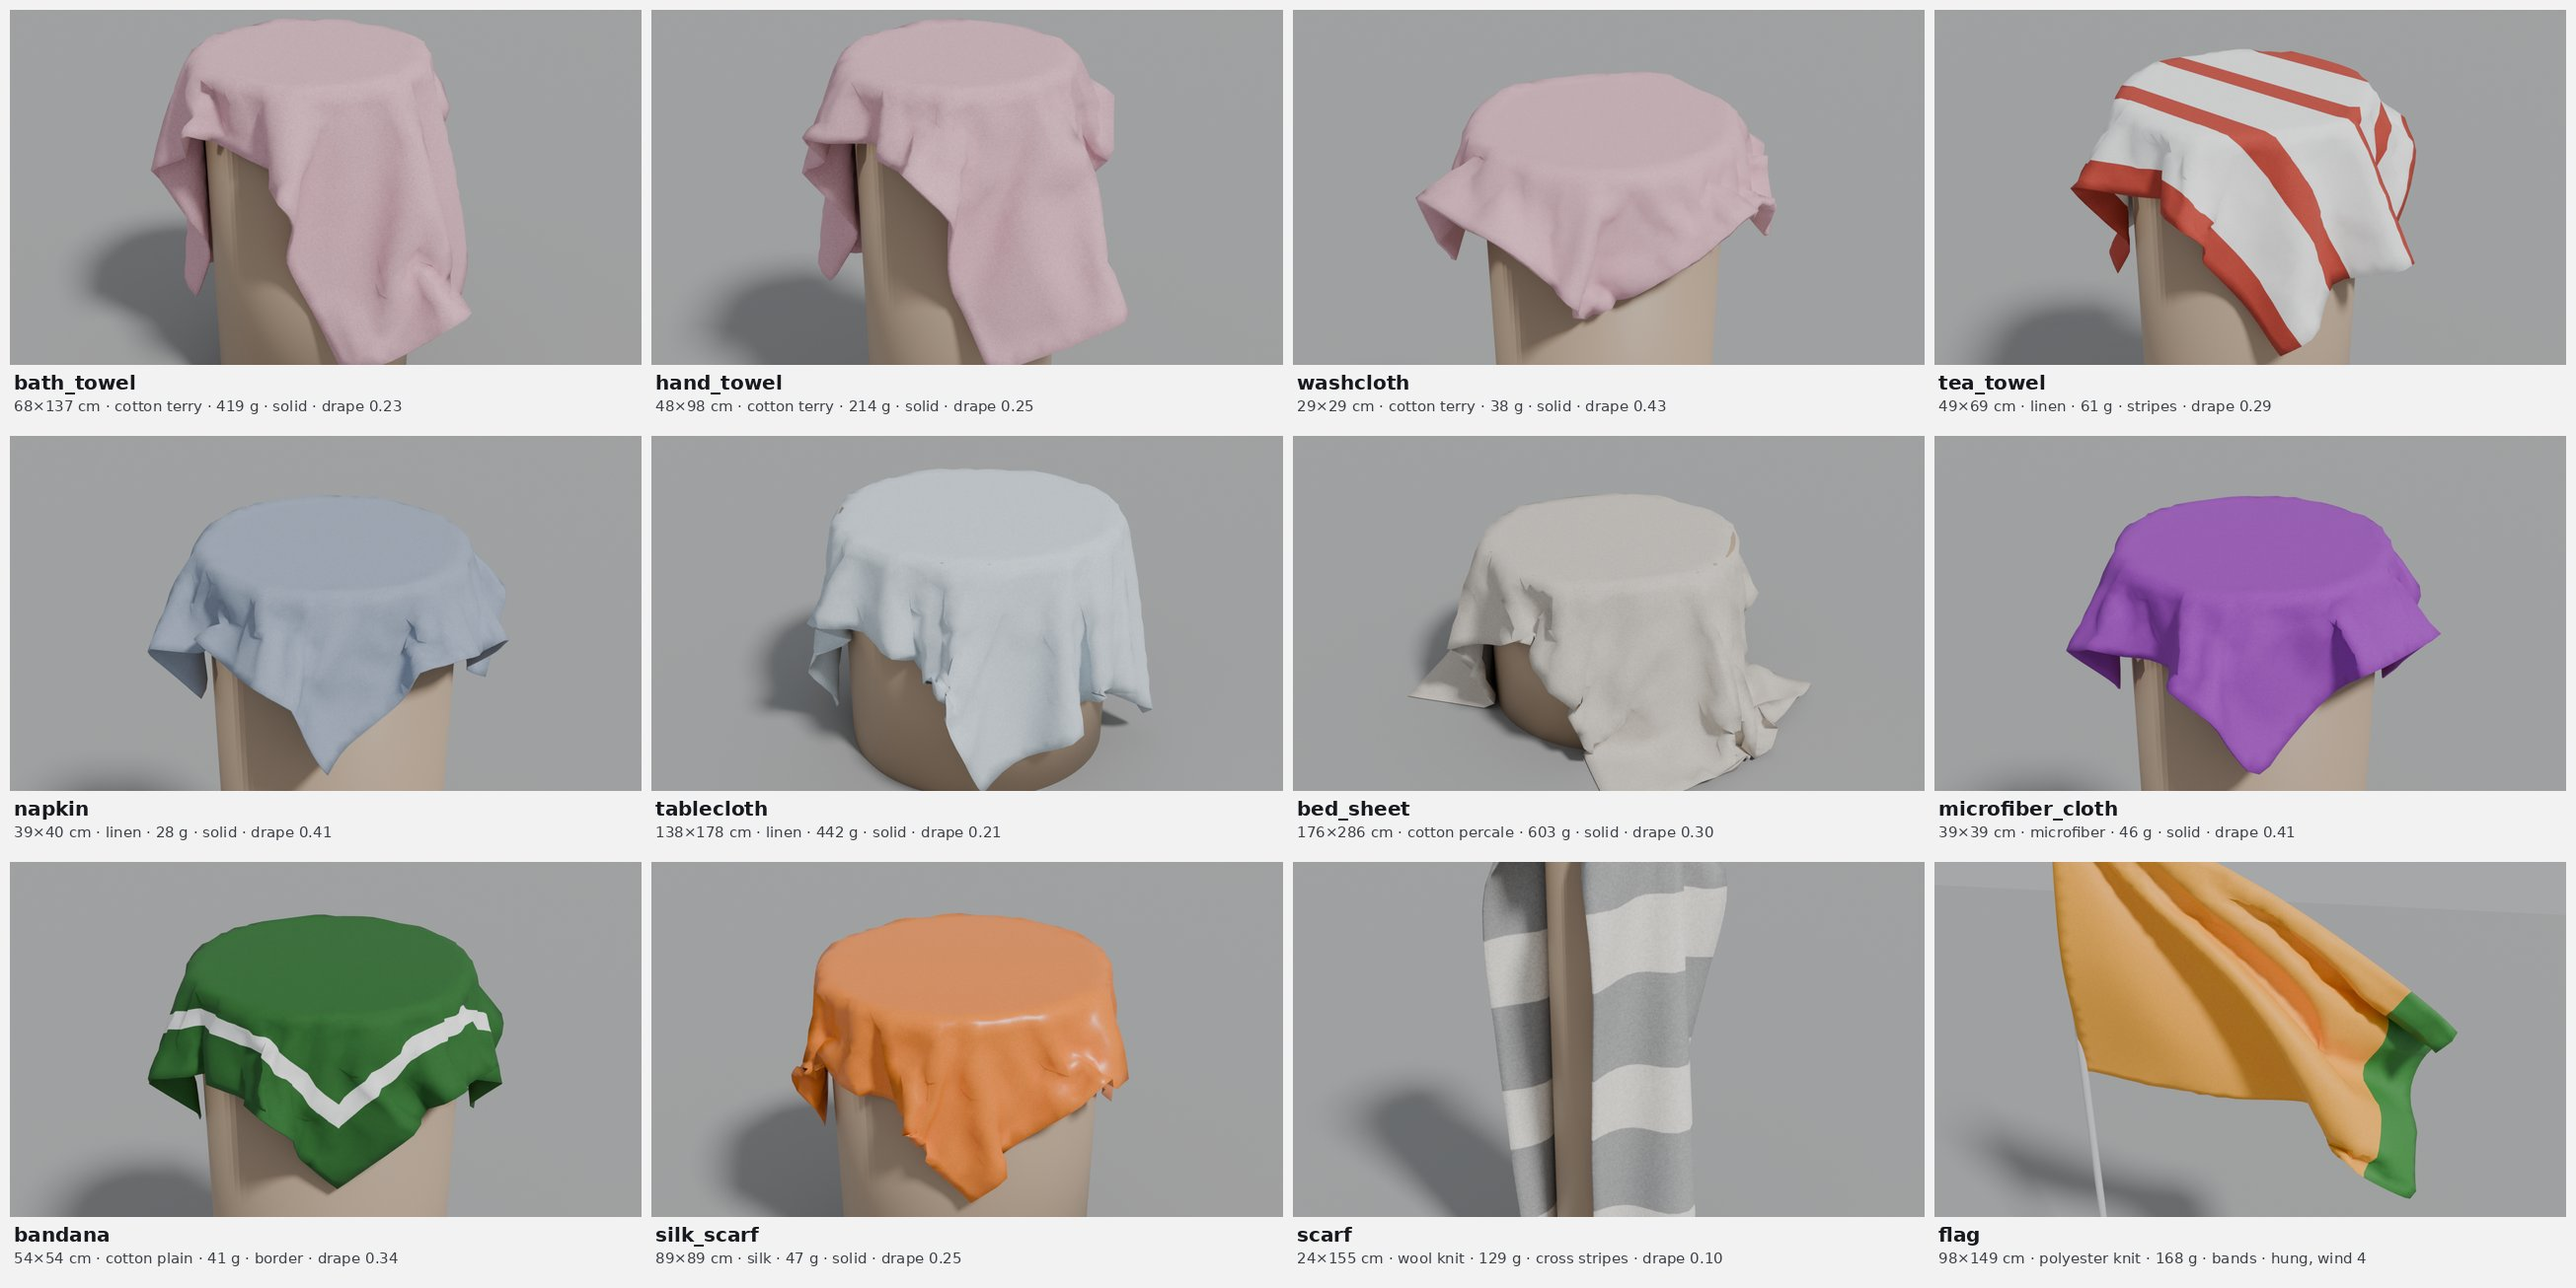
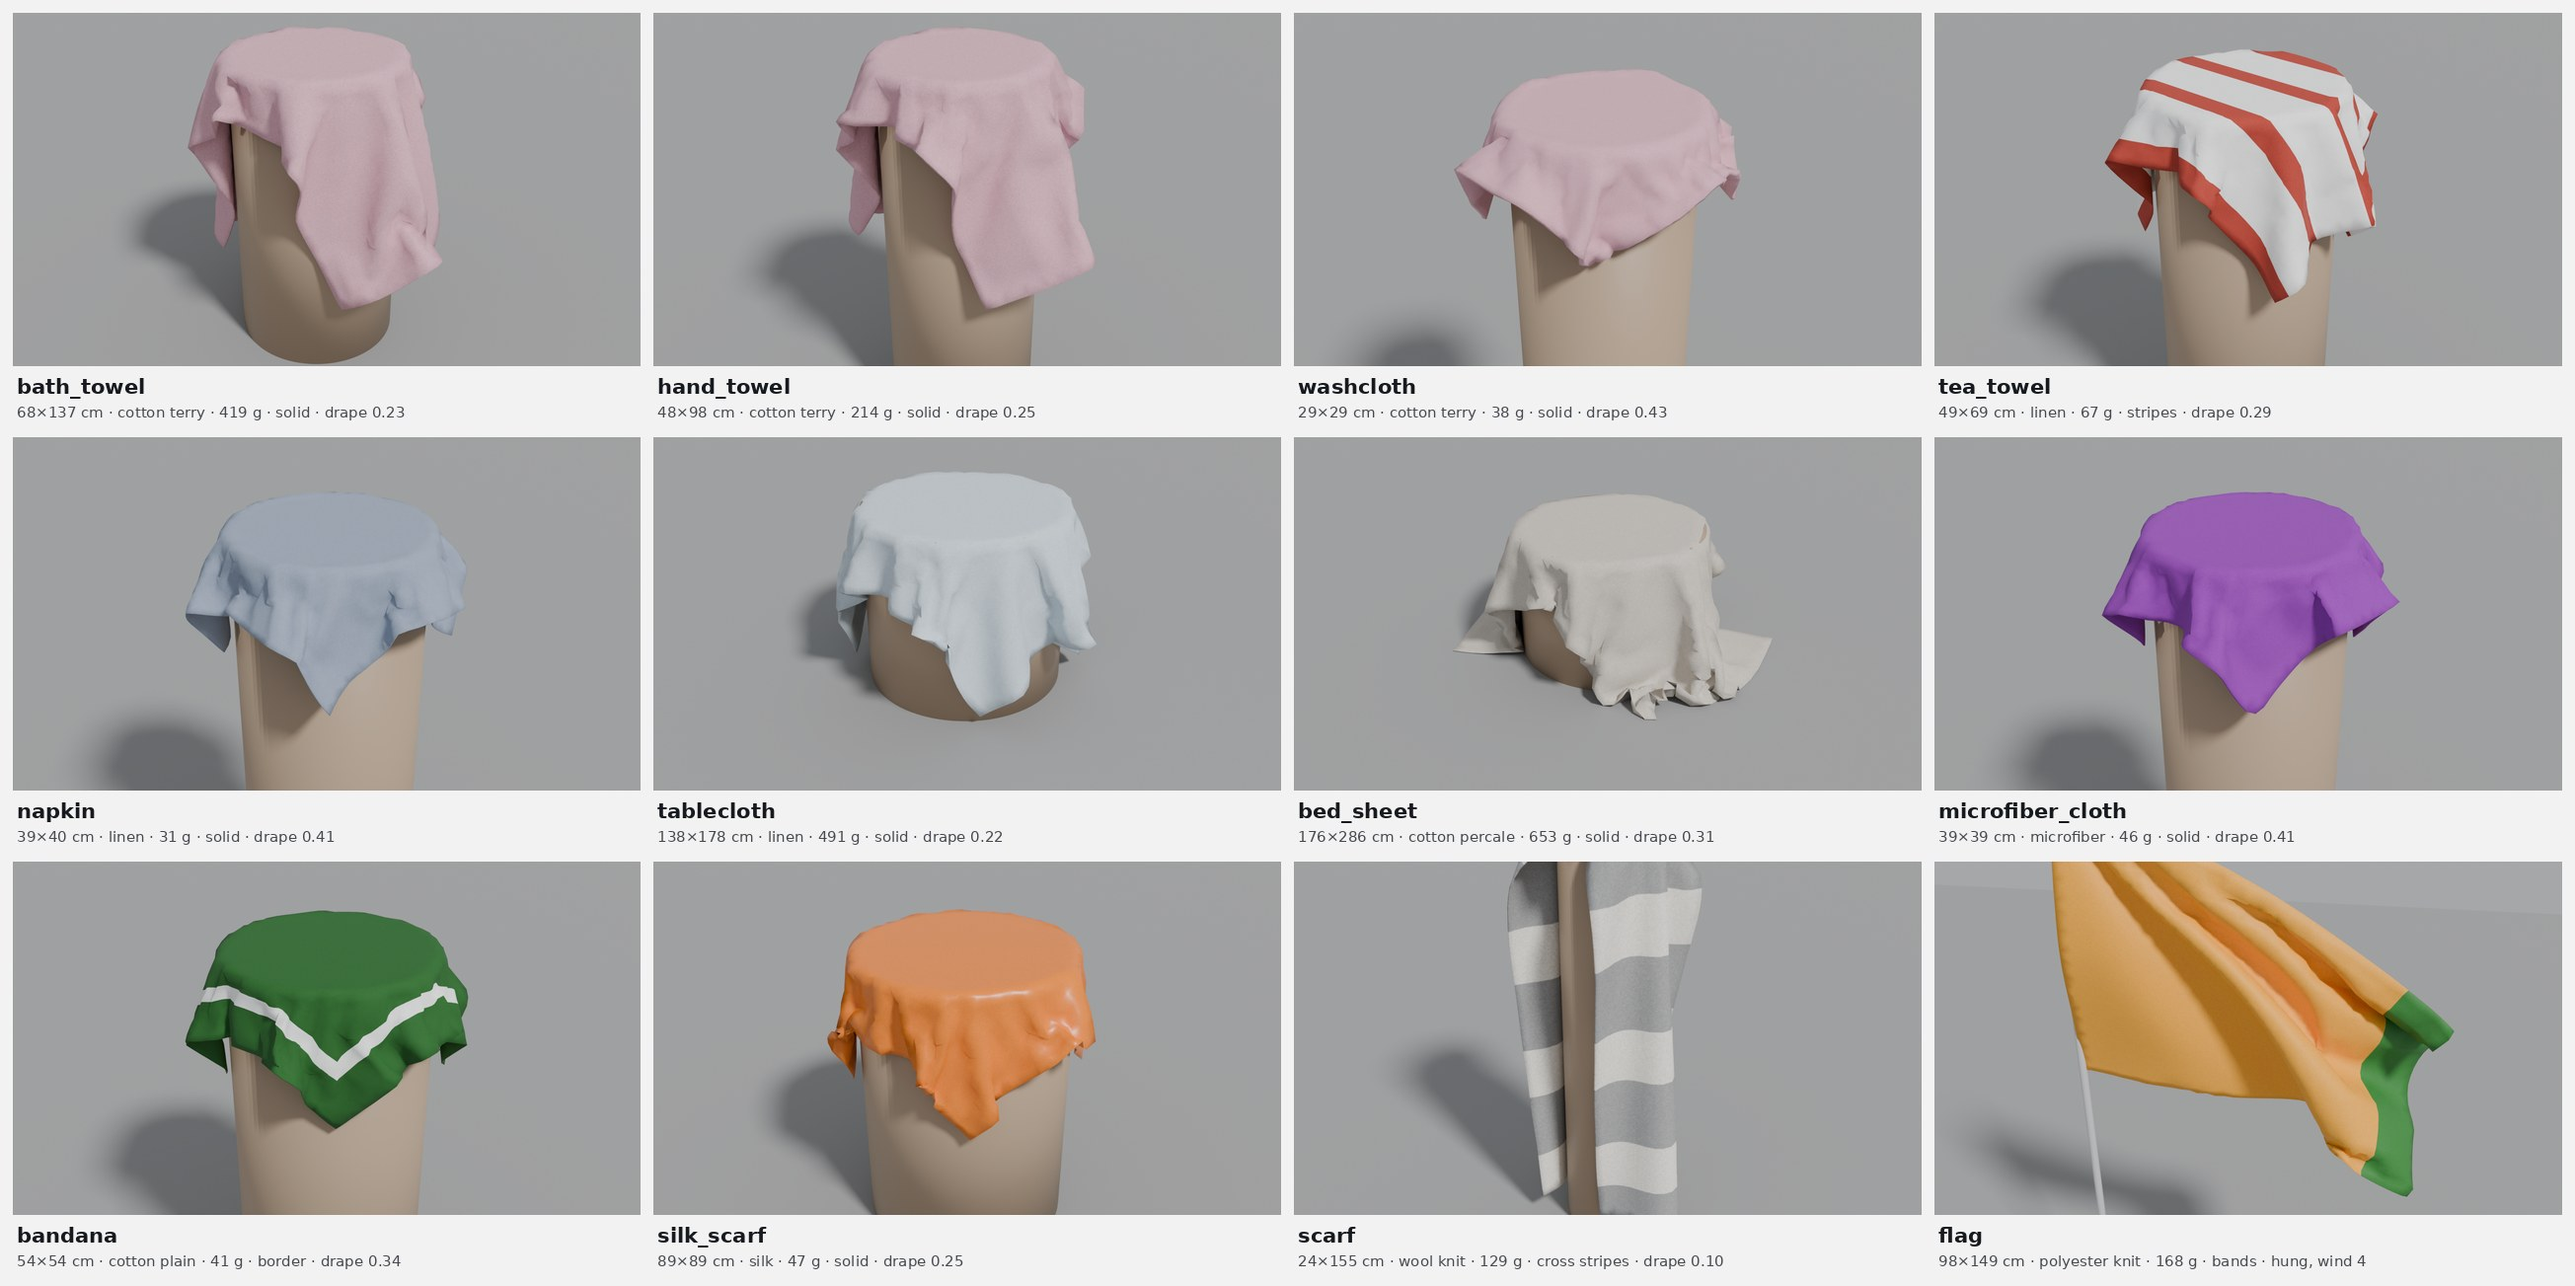
docs: images rendered again with the sourced values (PRV-33)
Claude-Session: https://claude.ai/code/session_01UFTdhx1MUVEJrqveU42xWj

diff --git a/scripts/readme_images.py b/scripts/readme_images.py
@@ -1,0 +1,102 @@
+"""Build the board of docs/usage.md: one piece of every preset, draped in Blender and rendered.
+
+Development tool, not part of the package. Needs Blender as a Python module (`pip install bpy`) and
+Pillow:
+
+    python scripts/readme_images.py [--out docs/images/all_presets.jpg] [--seed 2] [--samples 32]
+
+Each preset: `maillage generate --preset <p> --count 1 --seed 2`, then `maillage drop-test
+--pieces 1 --render` (the flag with `--wind 4`). Each tile is framed on its own piece, so scales
+differ; the caption gives the piece's size, fabric, mass, pattern and drape coefficient, as measured.
+"""
+
+from __future__ import annotations
+
+import argparse
+import csv
+import json
+import subprocess
+import tempfile
+from pathlib import Path
+
+from PIL import Image, ImageDraw, ImageFont
+
+from maillage.presets import PRESETS
+
+TILE = (636, 358)
+GAP = 13
+BAND = 72
+COLUMNS = 4
+BACKGROUND = (242, 242, 242)
+INK, INK2 = (22, 25, 29), (70, 74, 80)
+
+
+def piece(work: Path, key: str, seed: int, samples: int) -> dict:
+    """Generate and drape one piece of a preset; its render and what was measured."""
+    subprocess.run(
+        ["maillage", "generate", "--preset", key, "--count", "1", "--seed", str(seed), "--out", str(work)],
+        check=True,
+        capture_output=True,
+    )
+    folder = work / key
+    args = ["maillage", "drop-test", str(folder), "--pieces", "1", "--render", "--samples", str(samples)]
+    if PRESETS[key].get("pins"):
+        args += ["--wind", "4"]
+    subprocess.run(args, check=True, capture_output=True)
+    report = json.loads((folder / "drop_test" / "drop_test.json").read_text())["pieces"][0]
+    row = next(csv.DictReader((folder / "instances.csv").open()))
+    return {
+        "png": folder / "drop_test" / "drop_test.png",
+        "width_cm": float(row["variation:width_m"]) * 100,
+        "length_cm": float(row["variation:length_m"]) * 100,
+        **report,
+    }
+
+
+def caption(key: str, p: dict) -> str:
+    size = f"{p['width_cm']:.0f}×{p['length_cm']:.0f} cm"
+    fabric = p["fabric"].replace("_", " ")
+    pattern = p["pattern"].replace("_", " ")
+    end = "hung, wind 4" if p["scenario"] == "hang" else f"drape {p['drape_coefficient']:.2f}"
+    return f"{size} · {fabric} · {p['mass_kg'] * 1e3:.0f} g · {pattern} · {end}"
+
+
+def font(size: int, bold: bool = False):
+    try:
+        return ImageFont.truetype("DejaVuSans-Bold.ttf" if bold else "DejaVuSans.ttf", size)
+    except OSError:
+        return ImageFont.load_default()
+
+
+def board(pieces: dict, out: Path) -> None:
+    rows = -(-len(pieces) // COLUMNS)
+    w = COLUMNS * TILE[0] + (COLUMNS + 1) * GAP
+    h = rows * (TILE[1] + BAND) + GAP
+    img = Image.new("RGB", (w, h), BACKGROUND)
+    d = ImageDraw.Draw(img)
+    title, small = font(21, bold=True), font(15)
+    for i, (key, p) in enumerate(pieces.items()):
+        r, c = divmod(i, COLUMNS)
+        x, y = GAP + c * (TILE[0] + GAP), GAP + r * (TILE[1] + BAND)
+        tile = Image.open(p["png"]).convert("RGB").resize(TILE, Image.LANCZOS)
+        img.paste(tile, (x, y))
+        d.text((x + 4, y + TILE[1] + 8), key, fill=INK, font=title)
+        d.text((x + 4, y + TILE[1] + 38), caption(key, p), fill=INK2, font=small)
+    img.save(out, quality=88)
+
+
+def main(argv=None):
+    ap = argparse.ArgumentParser()
+    ap.add_argument("--out", default="docs/images/all_presets.jpg")
+    ap.add_argument("--seed", type=int, default=2)
+    ap.add_argument("--samples", type=int, default=32)
+    args = ap.parse_args(argv)
+    with tempfile.TemporaryDirectory() as t:
+        pieces = {key: piece(Path(t), key, args.seed, args.samples) for key in PRESETS}
+        board(pieces, Path(args.out))
+        for key, p in pieces.items():
+            print(key, caption(key, p))
+
+
+if __name__ == "__main__":
+    main()

diff --git a/docs/usage.md b/docs/usage.md
@@ -24,7 +24,7 @@ Part of the [Maillage](../README.md) documentation.
 ![The 12 presets side by side, one piece each, draped in Blender](https://raw.githubusercontent.com/drscaon/maillage/main/docs/images/all_presets.jpg)
 
 *One piece of each preset (seed 2), simulated 5 s by the Blender drape test
-and rendered with Cycles; each image is framed on its own piece, so scales
+and rendered with Cycles (`python scripts/readme_images.py`); each image is framed on its own piece, so scales
 differ (30 cm washcloth to 3 m sheet). Same colours for the three terry
 presets: they share a palette and, with one seed, the same colour draw.*
 

diff --git a/CHANGELOG.md b/CHANGELOG.md
@@ -58,6 +58,10 @@ and the project uses [Semantic Versioning](https://semver.org/).
 
 ### Changed
 
+- README and docs images rendered again with the sourced values of PRV-33
+  (areal densities, thicknesses): the board of the 12 presets, the tea towel
+  drape, the fabric squares and the flags GIFs. The board now has its script,
+  `scripts/readme_images.py`.
 - `docs/engines.md` is now `docs/physics.md`, the name the other generators
   use for the same page (PRV-35).
 

diff --git a/docs/physics.md b/docs/physics.md
@@ -82,7 +82,7 @@ silk,cotton_plain,linen,denim` then `maillage drop-test output/napkin --frames 4
 ![Two flags hanging from their poles, fluttering in the wind](https://raw.githubusercontent.com/drscaon/maillage/main/docs/images/flags_wind.gif)
 
 *Flags hung by their hoist corners in the wind: `maillage drop-test
-output/flag --wind 4 --gif`.*
+output/flag --pieces 2 --frames 96 --wind 4 --gif`.*
 
 ### Blender values
 

diff --git a/README.md b/README.md
@@ -38,7 +38,7 @@ shape, measured outputs, honest limits.
 
 *Waffle-cotton tea towels generated by Maillage (solid, gingham, striped),
 imported into Blender and draped by the drape test. Render:
-`maillage drop-test output/tea_towel --render`.*
+`maillage drop-test output/tea_towel --pieces 3 --render`.*
 
 ## What it does
 
